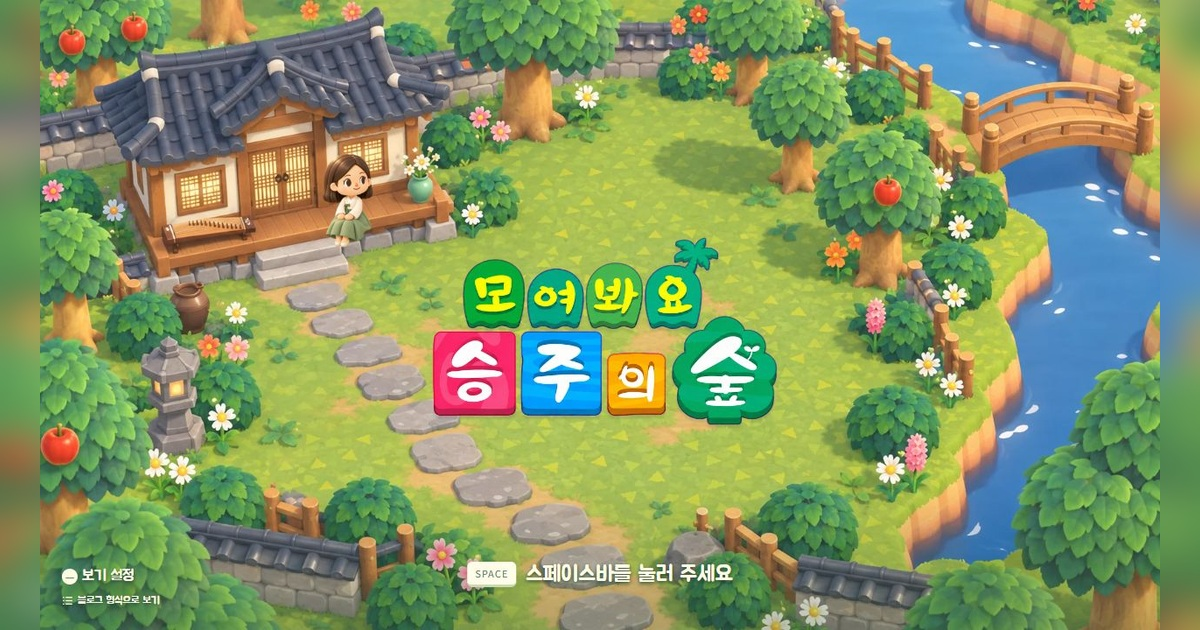
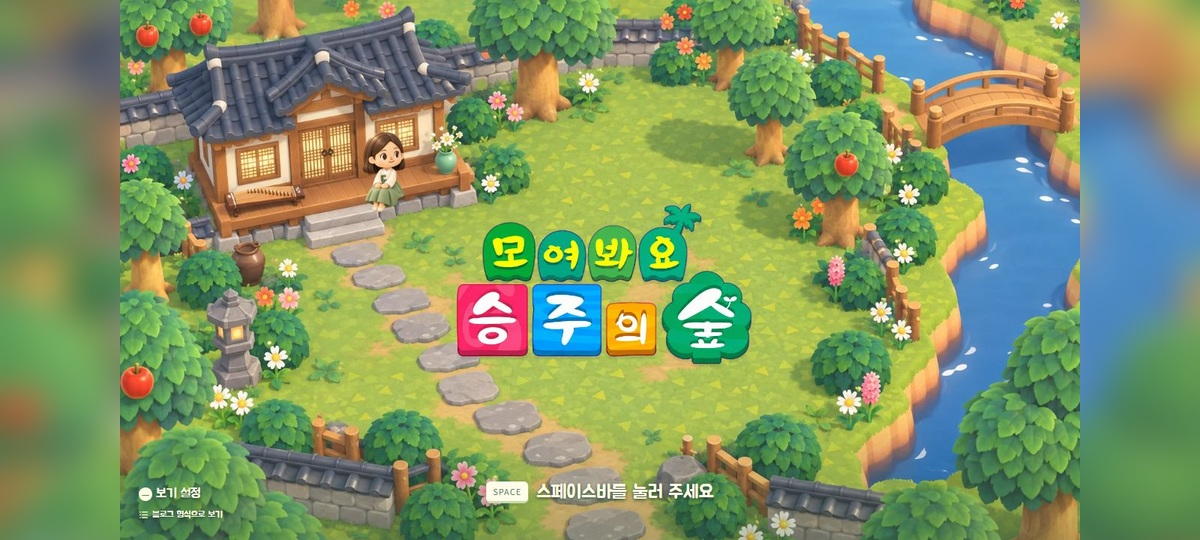
Match Kakao preview aspect ratio

diff --git a/index.html b/index.html
@@ -13,7 +13,7 @@
 <meta property="og:url" content="https://zoe3399.github.io/">
 <meta property="og:image" content="https://zoe3399.github.io/assets/img/social/main-screen-og.jpg">
 <meta property="og:image:width" content="1200">
-<meta property="og:image:height" content="630">
+<meta property="og:image:height" content="540">
 <meta property="og:image:alt" content="한옥 마루와 앉아 있는 캐릭터, 로고가 보이는 주섬주섬 메인 화면">
 <meta name="twitter:card" content="summary_large_image">
 <link rel="preconnect" href="https://fonts.googleapis.com">
